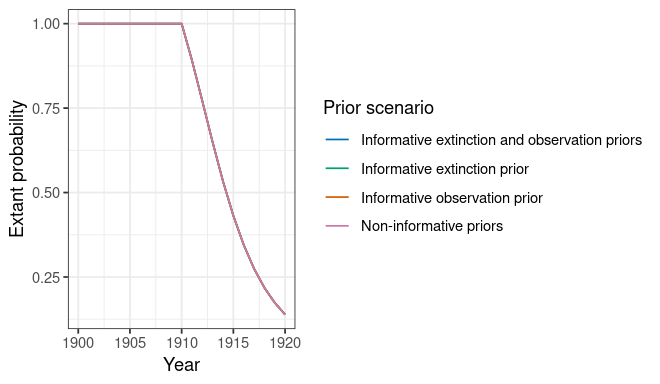
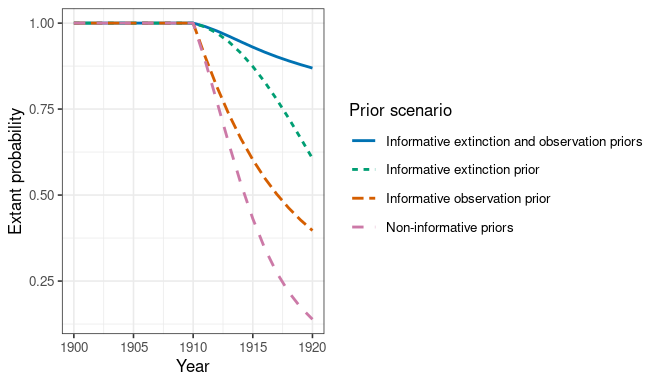
nouvelle mise a jour du readme pour visualiser les fonctions

diff --git a/README.md b/README.md
@@ -24,30 +24,30 @@ The package currently implements methods based on Solow (1993), with experimenta
 
 The core output of SpaColExt is a posterior probability, usually interpreted as the probability that a species is still extant at a given time conditional on the observed sighting record:
 
-\[
+$$
 P(H_0 \mid D) =
 \left(1 + \frac{1 - \pi}{\pi B(D)}\right)^{-1}
-\]
+$$
 
-where \(H_0\) is the hypothesis that the species is extant, \(D\) is the sighting record, \(\pi\) is the prior probability of persistence, and \(B(D)\) is the Bayes factor comparing persistence to extinction.
+where $H_0$ is the hypothesis that the species is extant, $D$ is the sighting record, $\pi$ is the prior probability of persistence, and $B(D)$ is the Bayes factor comparing persistence to extinction.
 
 For the non-homogeneous observation process, the package follows the idea that sighting intensity may vary through time:
 
-\[
+$$
 \lambda(t) = \alpha m^\alpha t^{\alpha - 1}
-\]
+$$
 
-Here, \(m\) controls the observation rate and \(\alpha\) controls the shape of the observation process through time. The value \(\alpha = 1\) corresponds to a homogeneous process, equivalent to assuming constant observation intensity. Values above or below 1 represent increasing or decreasing observation intensity through time.
+Here, $m$ controls the observation rate and $\alpha$ controls the shape of the observation process through time. The value $\alpha = 1$ corresponds to a homogeneous process, equivalent to assuming constant observation intensity. Values above or below 1 represent increasing or decreasing observation intensity through time.
 
-In ecological applications, \(\alpha\) should not be interpreted as sampling effort itself. A safer interpretation is that \(\alpha\) is a shape parameter informed by sampling effort, used to represent temporal heterogeneity in detectability or observation intensity. For example, if eBird checklist effort increases strongly through time, using \(\alpha > 1\) can make the observation process more consistent with increasing search effort.
+In ecological applications, $\alpha$ should not be interpreted as sampling effort itself. A safer interpretation is that $\alpha$ is a shape parameter informed by sampling effort, used to represent temporal heterogeneity in detectability or observation intensity. For example, if eBird checklist effort increases strongly through time, using $\alpha > 1$ can make the observation process more consistent with increasing search effort.
 
-One possible empirical calibration is to fit a relationship between yearly effort \(E_t\) and scaled time:
+One possible empirical calibration is to fit a relationship between yearly effort $E_t$ and scaled time:
 
-\[
+$$
 \log(E_t) = c + (\alpha - 1)\log(t)
-\]
+$$
 
-This treats \(\alpha\) as a compact summary of temporal change in effort. This approach is still experimental and should be reported as an effort-informed sensitivity analysis unless the calibration is explicitly validated.
+This treats $\alpha$ as a compact summary of temporal change in effort. This approach is still experimental and should be reported as an effort-informed sensitivity analysis unless the calibration is explicitly validated.
 
 ## Installation
 
@@ -238,10 +238,16 @@ The dashed line shows the simulated colonization year. In real applications this
 
 `compute_posterior_c2022_extinction()` allows custom priors for extinction time (`prior_te`) and observation rate (`prior_m`). This is useful when independent ecological or sampling information should influence the posterior.
 
+The priors below are intentionally informative so their effect is visible. A flat prior such as `function(te) 1` and the Solow prior `function(m) 1 / m` reproduce the default model, so all curves would overlap.
+
 
 ``` r
-prior_te <- function(te) 1
-prior_m <- function(m) 1 / pmax(m, .Machine$double.eps)
+prior_te <- function(te) stats::dnorm(te, mean = 1913, sd = 3)
+prior_m <- function(m) stats::dlnorm(
+  pmax(m, .Machine$double.eps),
+  meanlog = log(2),
+  sdlog = 0.45
+)
 
 compute_posterior_c2022_extinction(
   sightings = sightings,
@@ -251,8 +257,8 @@ compute_posterior_c2022_extinction(
   prior_m = prior_m
 )
 #>  [1] 1.0000000 1.0000000 1.0000000 1.0000000 1.0000000 1.0000000 1.0000000
-#>  [8] 1.0000000 1.0000000 1.0000000 1.0000000 0.8911846 0.7706155 0.6482621
-#> [15] 0.5331491 0.4312668 0.3451666 0.2747469 0.2183818 0.1738466 0.1388889
+#>  [8] 1.0000000 1.0000000 1.0000000 1.0000000 0.9901022 0.9770009 0.9617896
+#> [15] 0.9457864 0.9301357 0.9155577 0.9023137 0.8903313 0.8793818 0.8692228
 ```
 
 You can also compare the effect of different prior combinations:
